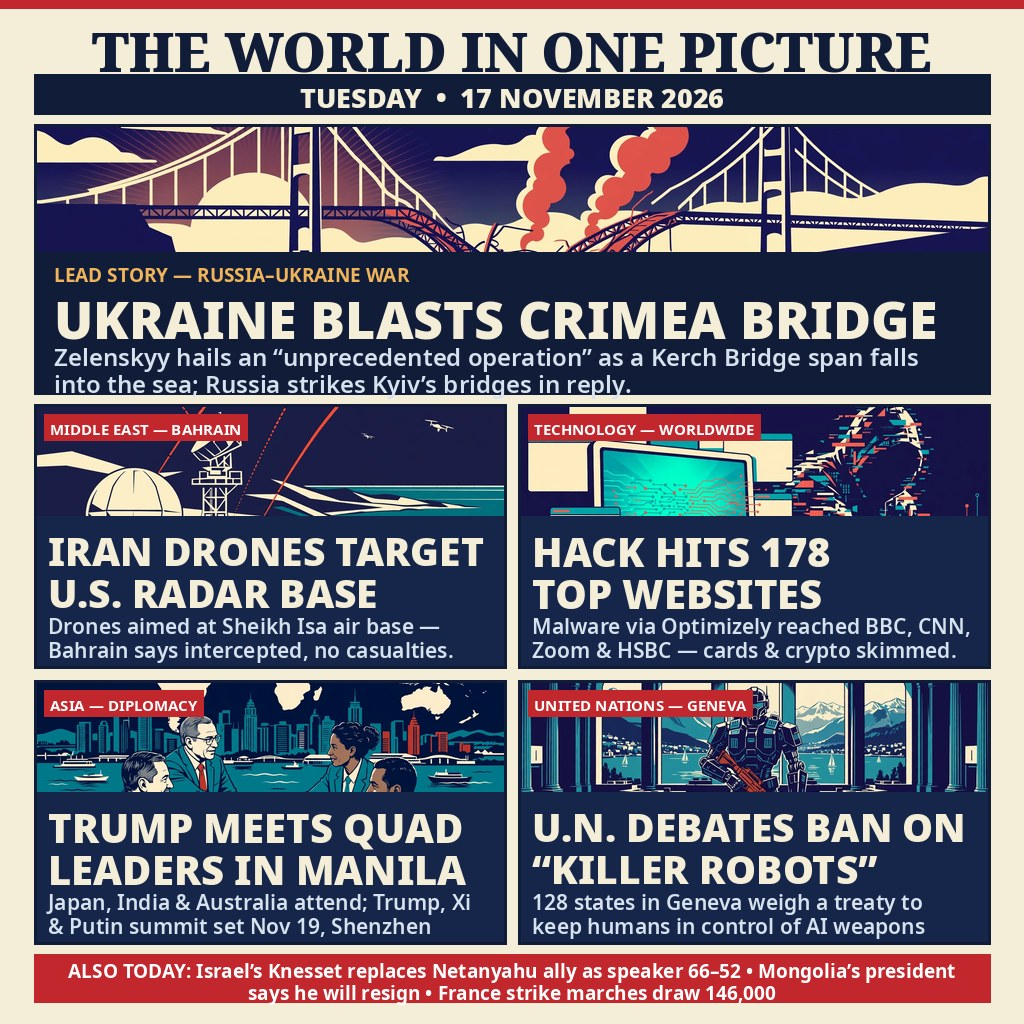
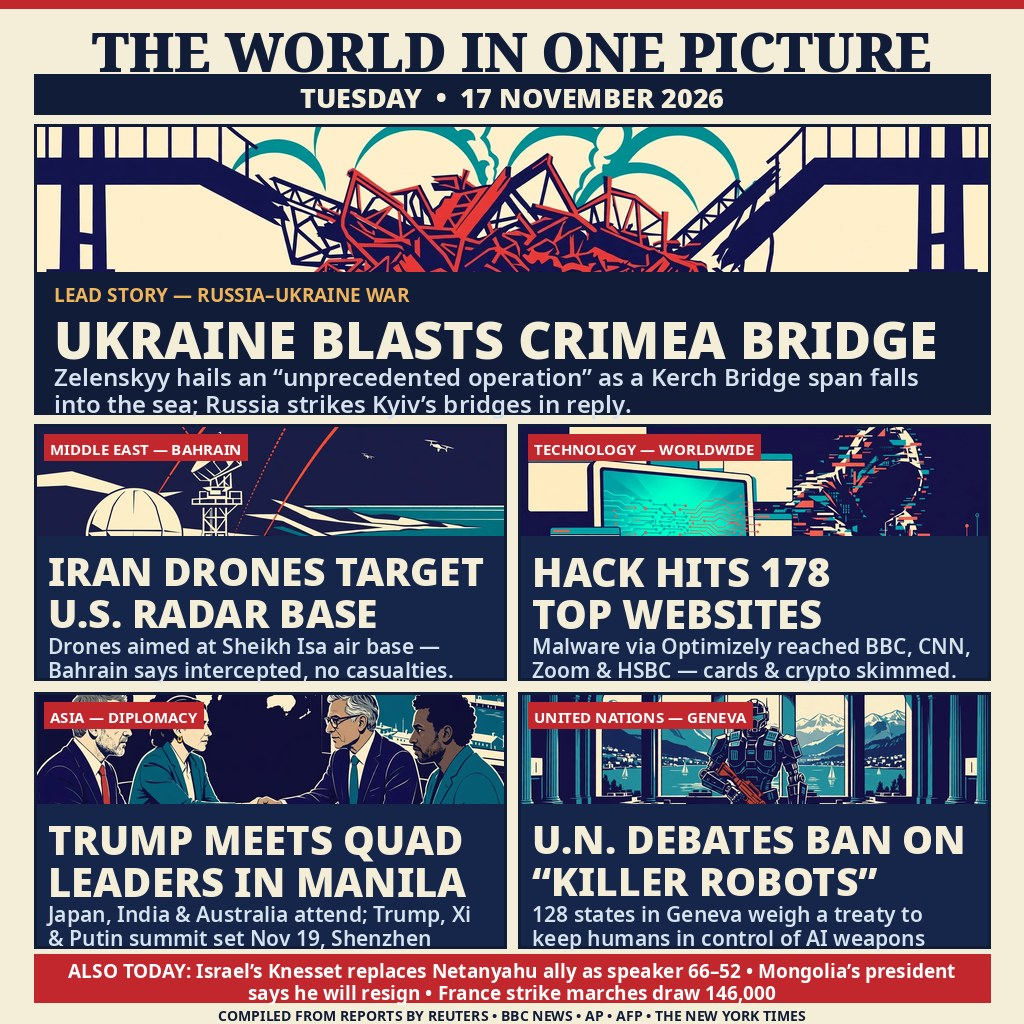
v2: stronger lead art, cleaner Quad panel, sources folio line
Lead bridge artwork regenerated with the collapsed span front and
centre; lead art given more height. Quad panel artwork regenerated
without banner artefacts. Added a folio line crediting the wires
the day's reports came from (Reuters, BBC News, AP, AFP, NYT).

diff --git a/README.md b/README.md
@@ -5,7 +5,7 @@ Entry for the make.fun competition **news-image-20261117**
 
 `main.py` (Python 3.13, standard library only) copies the finished
 image held in this repository to `/output/entry.png`. The image is a
-1024×1024 JPEG (347,054 bytes, under the 1 MiB cap) stored under the
+1024×1024 JPEG (351,577 bytes, under the 1 MiB cap) stored under the
 name `entry.png`, as the rules allow — the gate tells PNG from JPEG
 by the file's first bytes. Two runs write byte-identical output.
 
